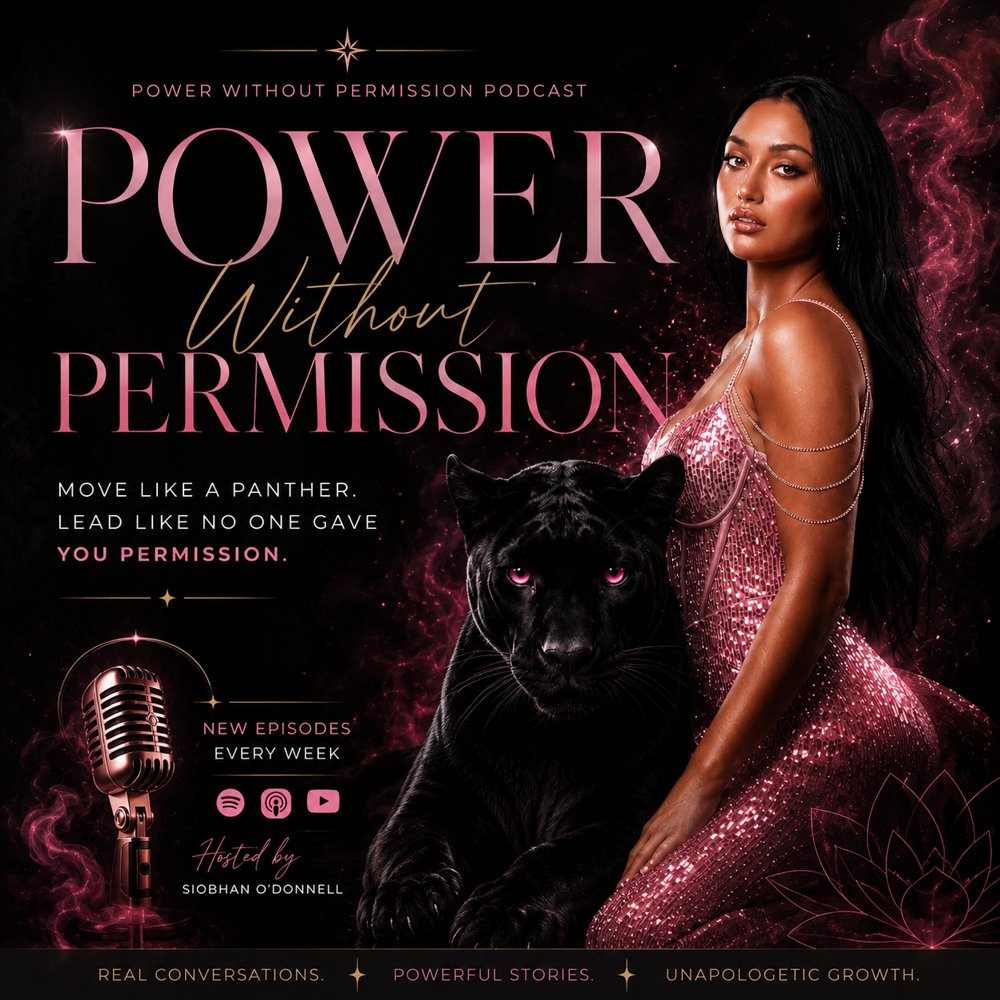
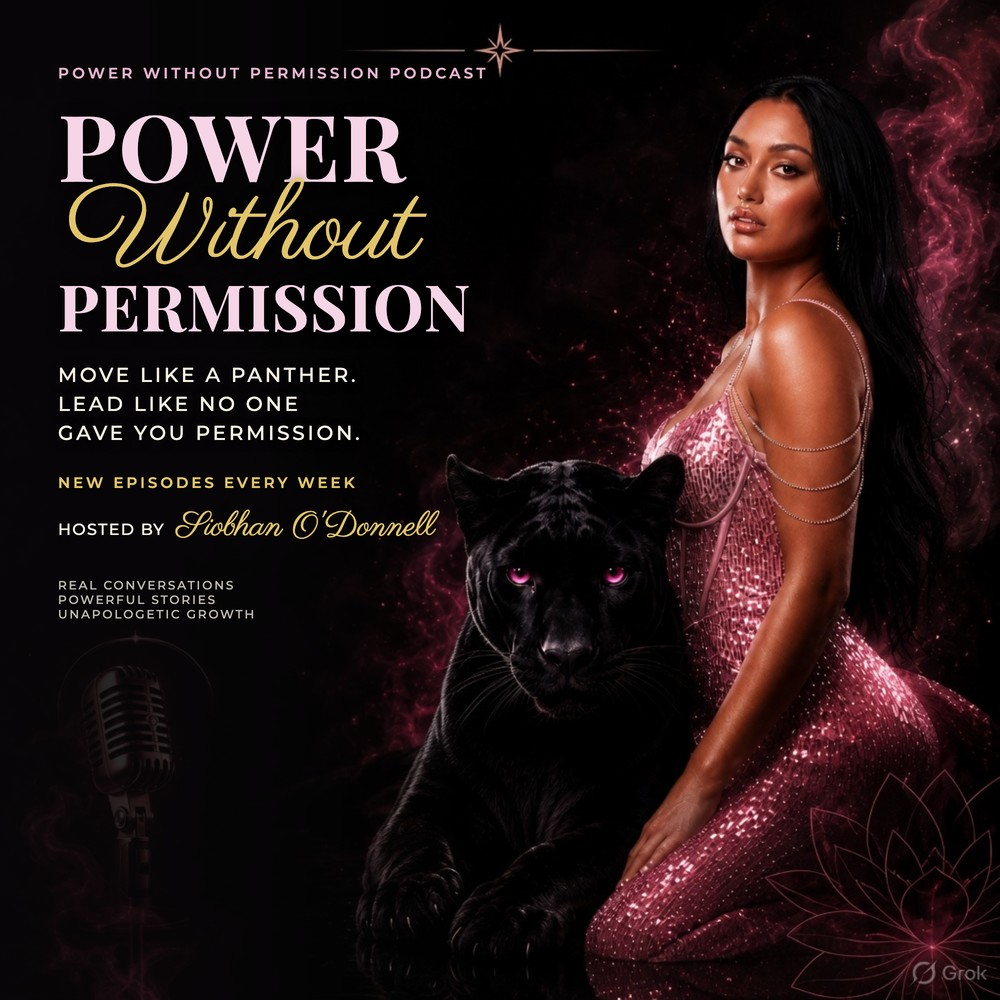
Give "no one" its own line and lift the cover type off the portrait.

diff --git a/index.html b/index.html
@@ -2149,11 +2149,25 @@
     }
 
     .spark-word:nth-child(2) {
-      animation-delay: 0.16s;
+      animation-delay: 0.12s;
     }
 
     .spark-word:nth-child(3) {
-      animation-delay: 0.32s;
+      animation-delay: 0.24s;
+    }
+
+    .spark-word:nth-child(4) {
+      animation-delay: 0.36s;
+    }
+
+    .spark-word.script-line {
+      line-height: 1.05;
+      margin: -0.06em 0 0.02em;
+      white-space: nowrap;
+    }
+
+    .spark-word.script-line .script {
+      font-size: 1.22em;
     }
 
     .sparkle {
@@ -2433,7 +2447,8 @@
           <div class="stamp-label hero-eyebrow">Power Without Permission Podcast</div>
           <h1 class="spark-line">
             <span class="spark-word">Move like a panther.</span>
-            <span class="spark-word">Lead like <span class="script glint">no one</span></span>
+            <span class="spark-word">Lead like</span>
+            <span class="spark-word script-line"><span class="script glint">no one</span></span>
             <span class="spark-word">gave you permission.</span>
             <i class="sparkle s1" aria-hidden="true">✦</i>
             <i class="sparkle s2" aria-hidden="true">✦</i>

diff --git a/sw.js b/sw.js
@@ -1,4 +1,4 @@
-var CACHE = "pwp-v1";
+var CACHE = "pwp-v2";
 var SHELL = ["/", "/favicon.svg", "/manifest.json", "/icons/icon-192.png", "/icons/icon-512.png", "/css/app.css", "/js/pwa.js"];
 
 self.addEventListener("install", function (event) {
